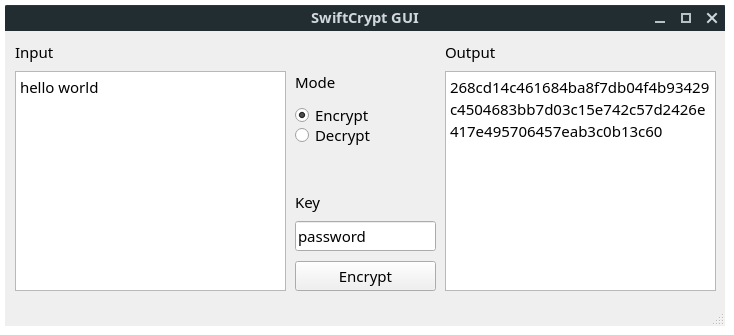
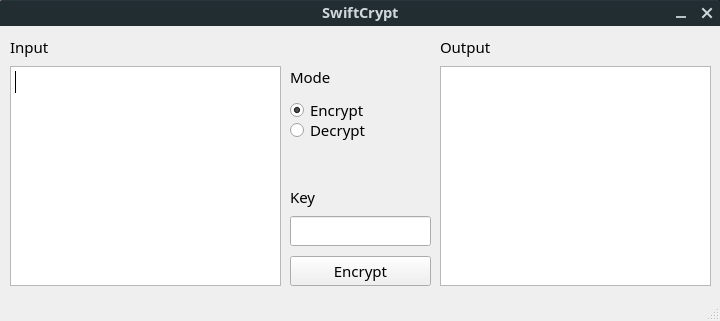
Update gui

diff --git a/gui/mainwindow.cpp b/gui/mainwindow.cpp
@@ -18,7 +18,9 @@ MainWindow::MainWindow(QWidget *parent) :
     ui(new Ui::MainWindow)
 {
     proc.setProcessChannelMode(QProcess::MergedChannels);
+    this->setFixedSize(QSize(720, 295));
     ui->setupUi(this);
+
 }
 
 MainWindow::~MainWindow()
@@ -50,14 +52,7 @@ void MainWindow::endC() {
     }
     active = false;
 
-
-
-
-
-
-
 }
-
 
 
 void MainWindow::crypt() {

diff --git a/gui/main.cpp b/gui/main.cpp
@@ -4,6 +4,7 @@
 int main(int argc, char *argv[])
 {
     QApplication a(argc, argv);
+    a.setWindowIcon(QIcon("./icon.png"));
     MainWindow w;
     w.show();
 
